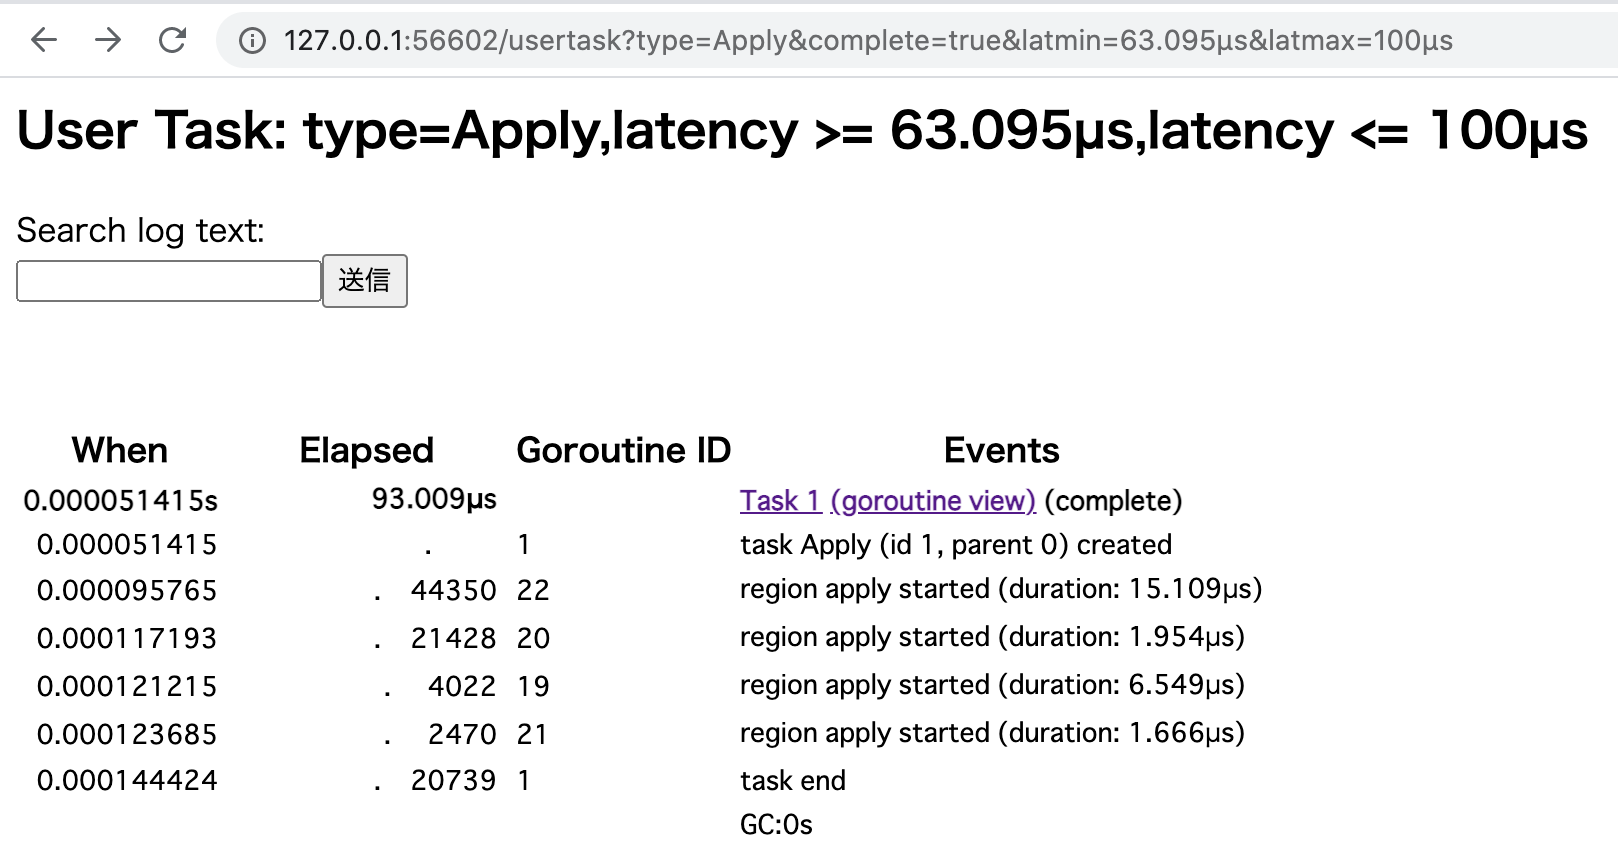
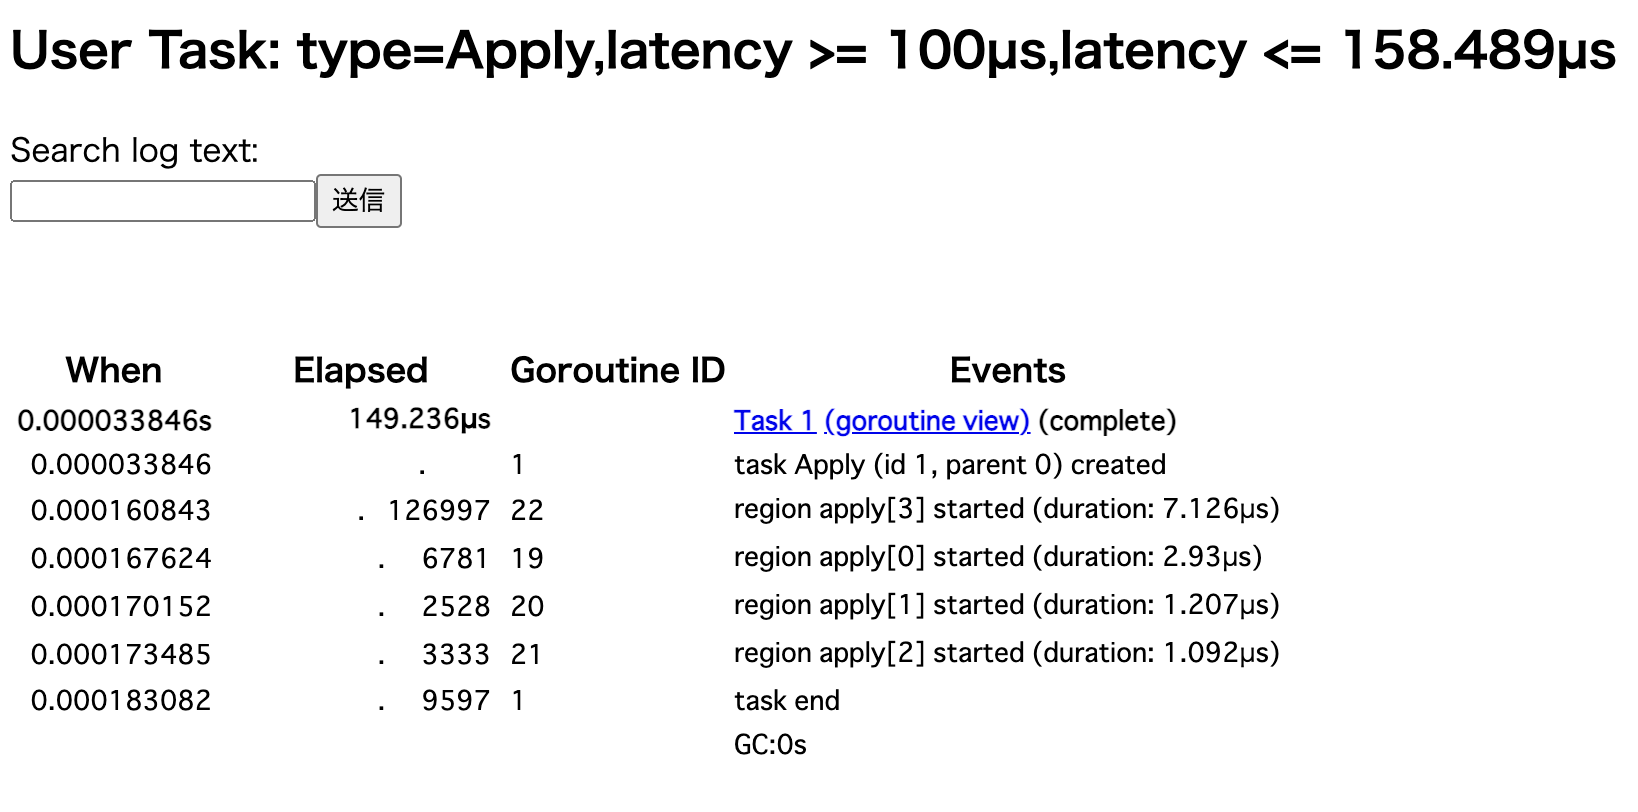
Update some files

diff --git a/main.go b/main.go
@@ -2,6 +2,7 @@ package main
 
 import (
 	"context"
+	"fmt"
 	"log"
 	"os"
 	"runtime/trace"
@@ -36,7 +37,7 @@ func (m Matrix) Apply(n Matrix) Matrix {
 		wg.Add(1)
 		go func(ctx context.Context, i int, out *Matrix) {
 			defer wg.Done()
-			defer trace.StartRegion(ctx, "apply").End()
+			defer trace.StartRegion(ctx, fmt.Sprintf("apply[%d]", i)).End()
 
 			v := make([]complex128, b)
 			for j := 0; j < b; j++ {
